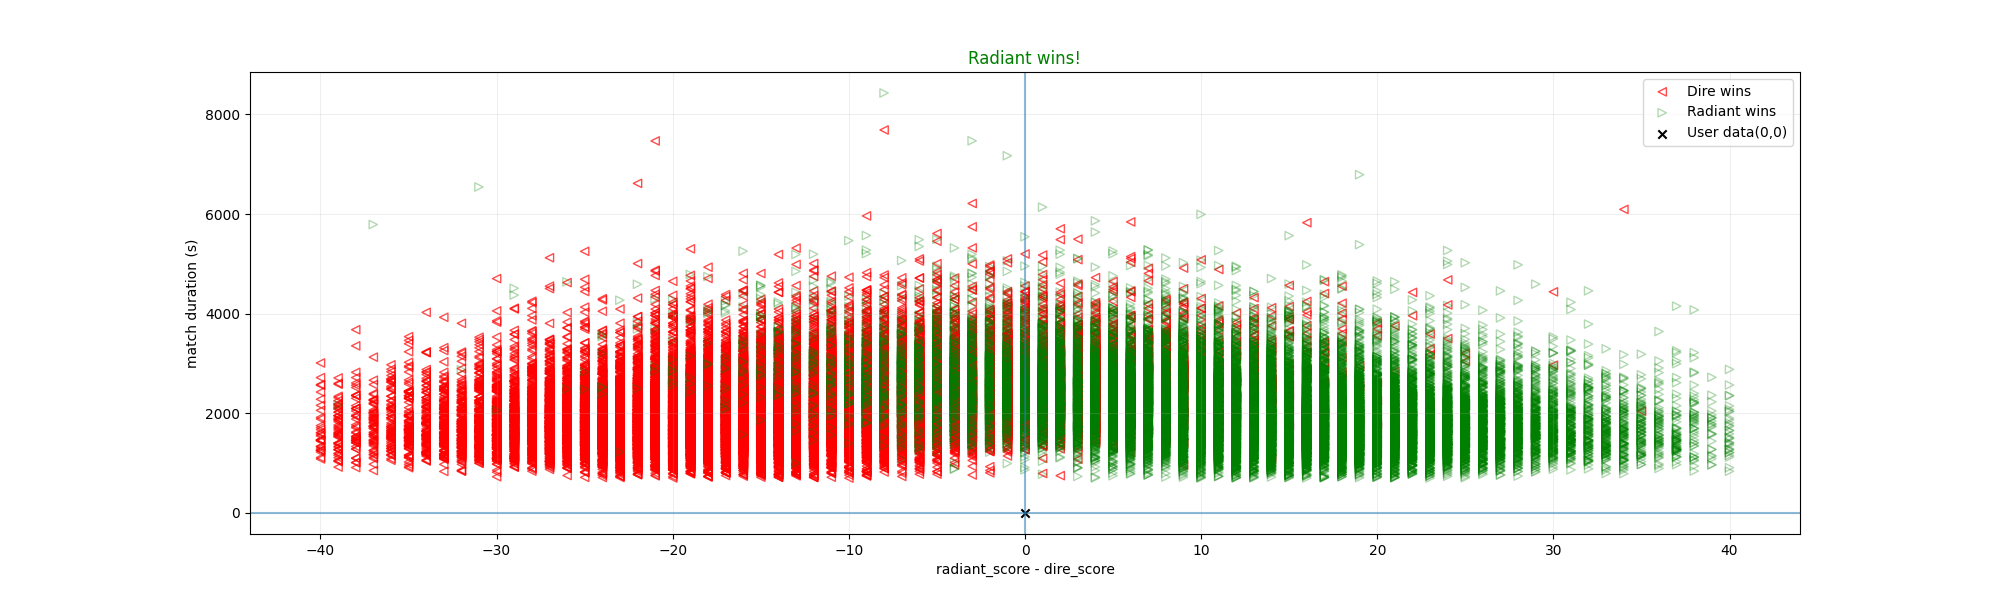
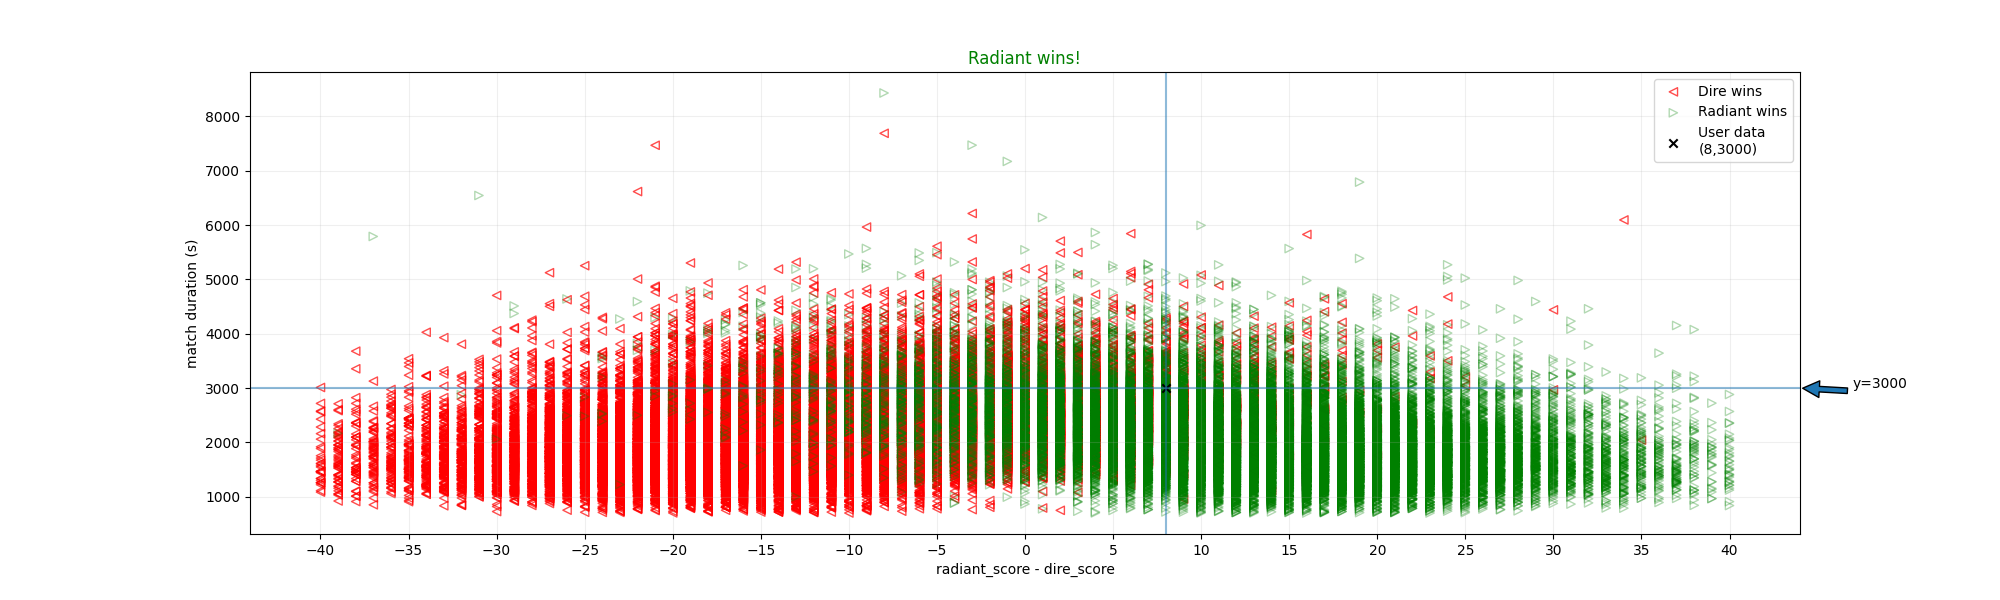
Small tweaks

diff --git a/src/backend/classifier.py b/src/backend/classifier.py
@@ -39,6 +39,8 @@ class Classifier:
         def plot2D(self,x=-1,y=-1,winner=''):
                 self.data['diff'] = self.data['radiant_score'] - self.data['dire_score']
                 plt.figure(figsize=(20,6))
+                plt.xticks(np.arange(-50, 50, 5))
+                
                 plt.grid(axis='both', alpha=0.2)                
 
                 plt.scatter(self.data[self.data.radiant_win == 0]['diff'],self.data[self.data.radiant_win == 0]['duration'],marker='<',facecolor='none', edgecolors='r', alpha=0.7, label='Dire wins')                
@@ -47,13 +49,13 @@ class Classifier:
                 plt.xlabel('radiant_score - dire_score')
                 plt.ylabel('match duration (s)')
                 
-                if x!=-1 or y!= -1:
+                if x!=-1 or y!= -1:                        
                         plt.axvline(x=x,alpha=0.5)                        
                         plt.axhline(y=y,alpha=0.5)
-                        plt.scatter(x,y,marker='x',facecolor='black',edgecolors='black', alpha=1,label='User data'+'('+str(x)+','+str(y)+')')
+                        plt.scatter(x,y,marker='x',facecolor='black',edgecolors='black', alpha=1,label='User data\n'+'('+str(x)+','+str(y)+')')
                         plt.annotate('y='+str(y), 
-                                                        xy=(45, 40), 
-                                                        xytext=(45,y), 
+                                                        xy=(44, y), 
+                                                        xytext=(47,y), 
                                                         arrowprops = dict(facecolor=None, shrink=0.05))
                         if winner.find('Dire') == -1:
                                 plt.title(winner,fontdict={'color':'green'})
